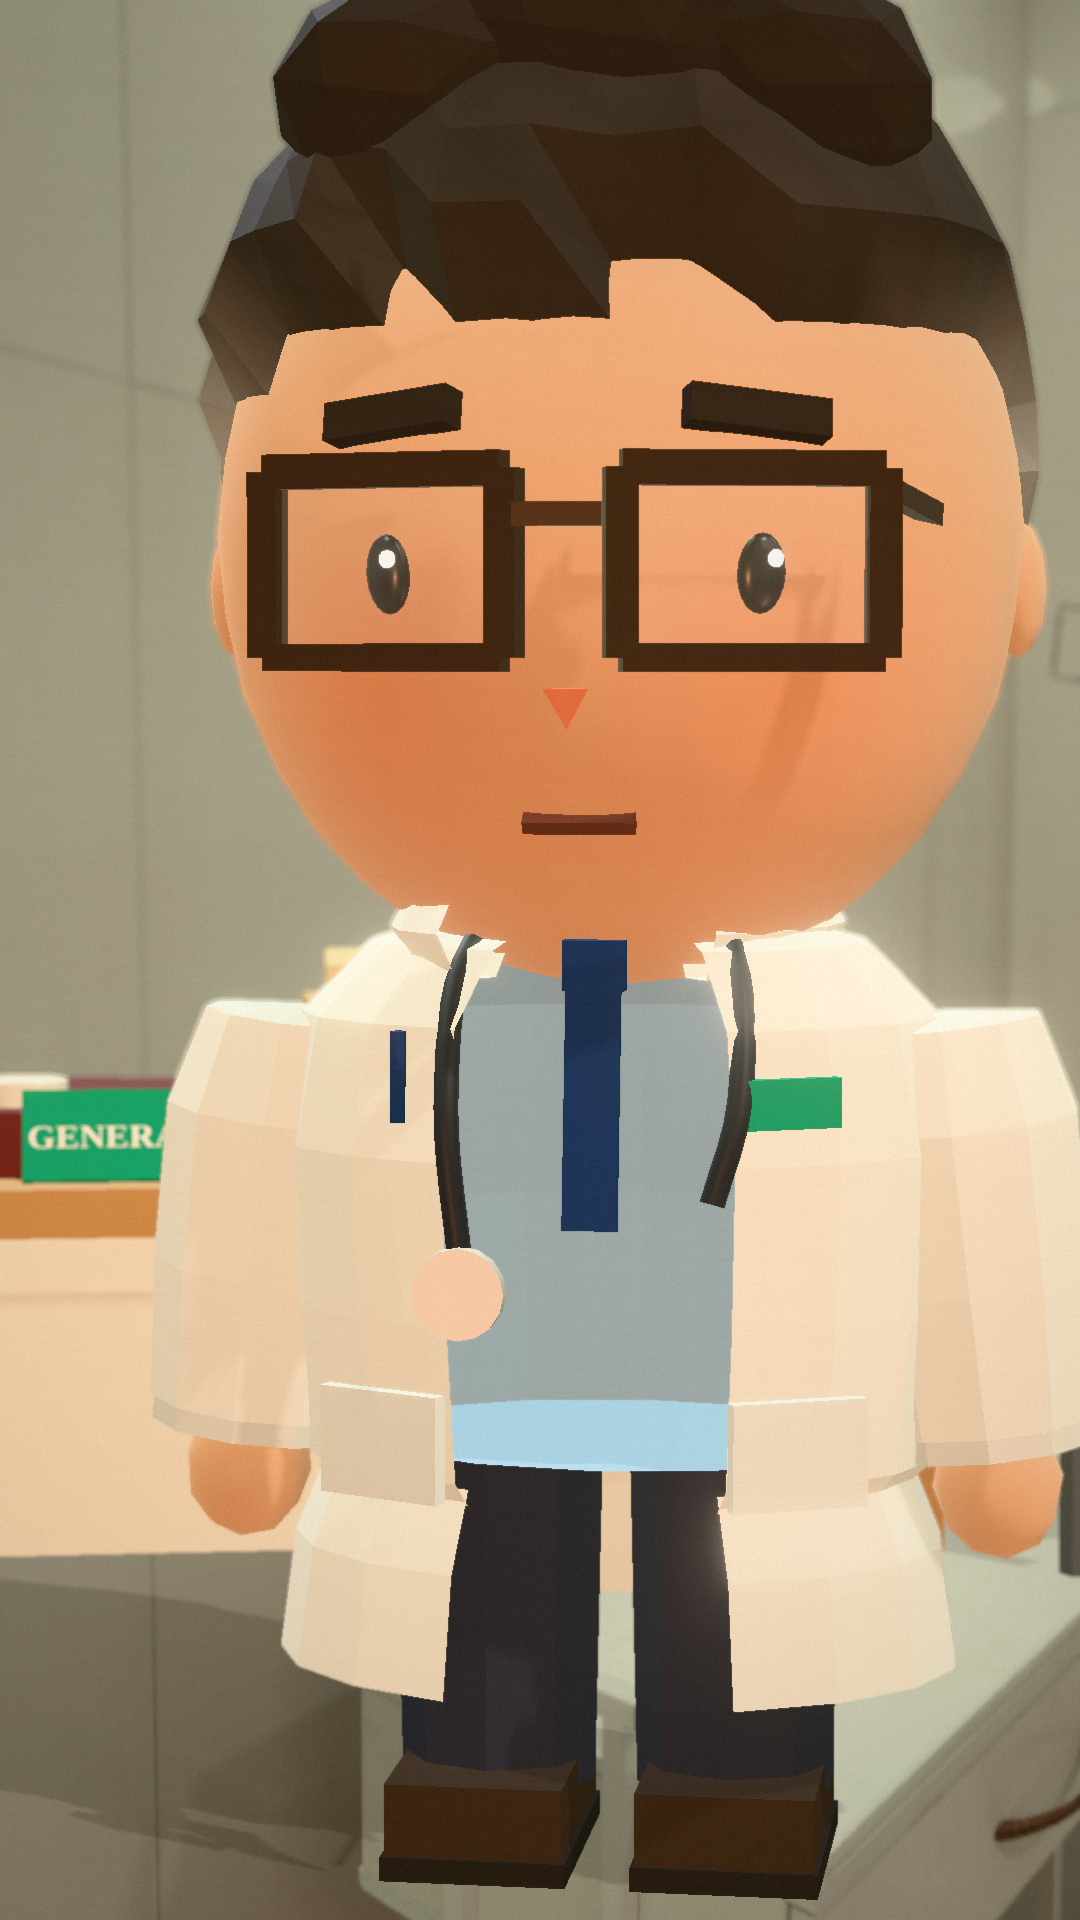
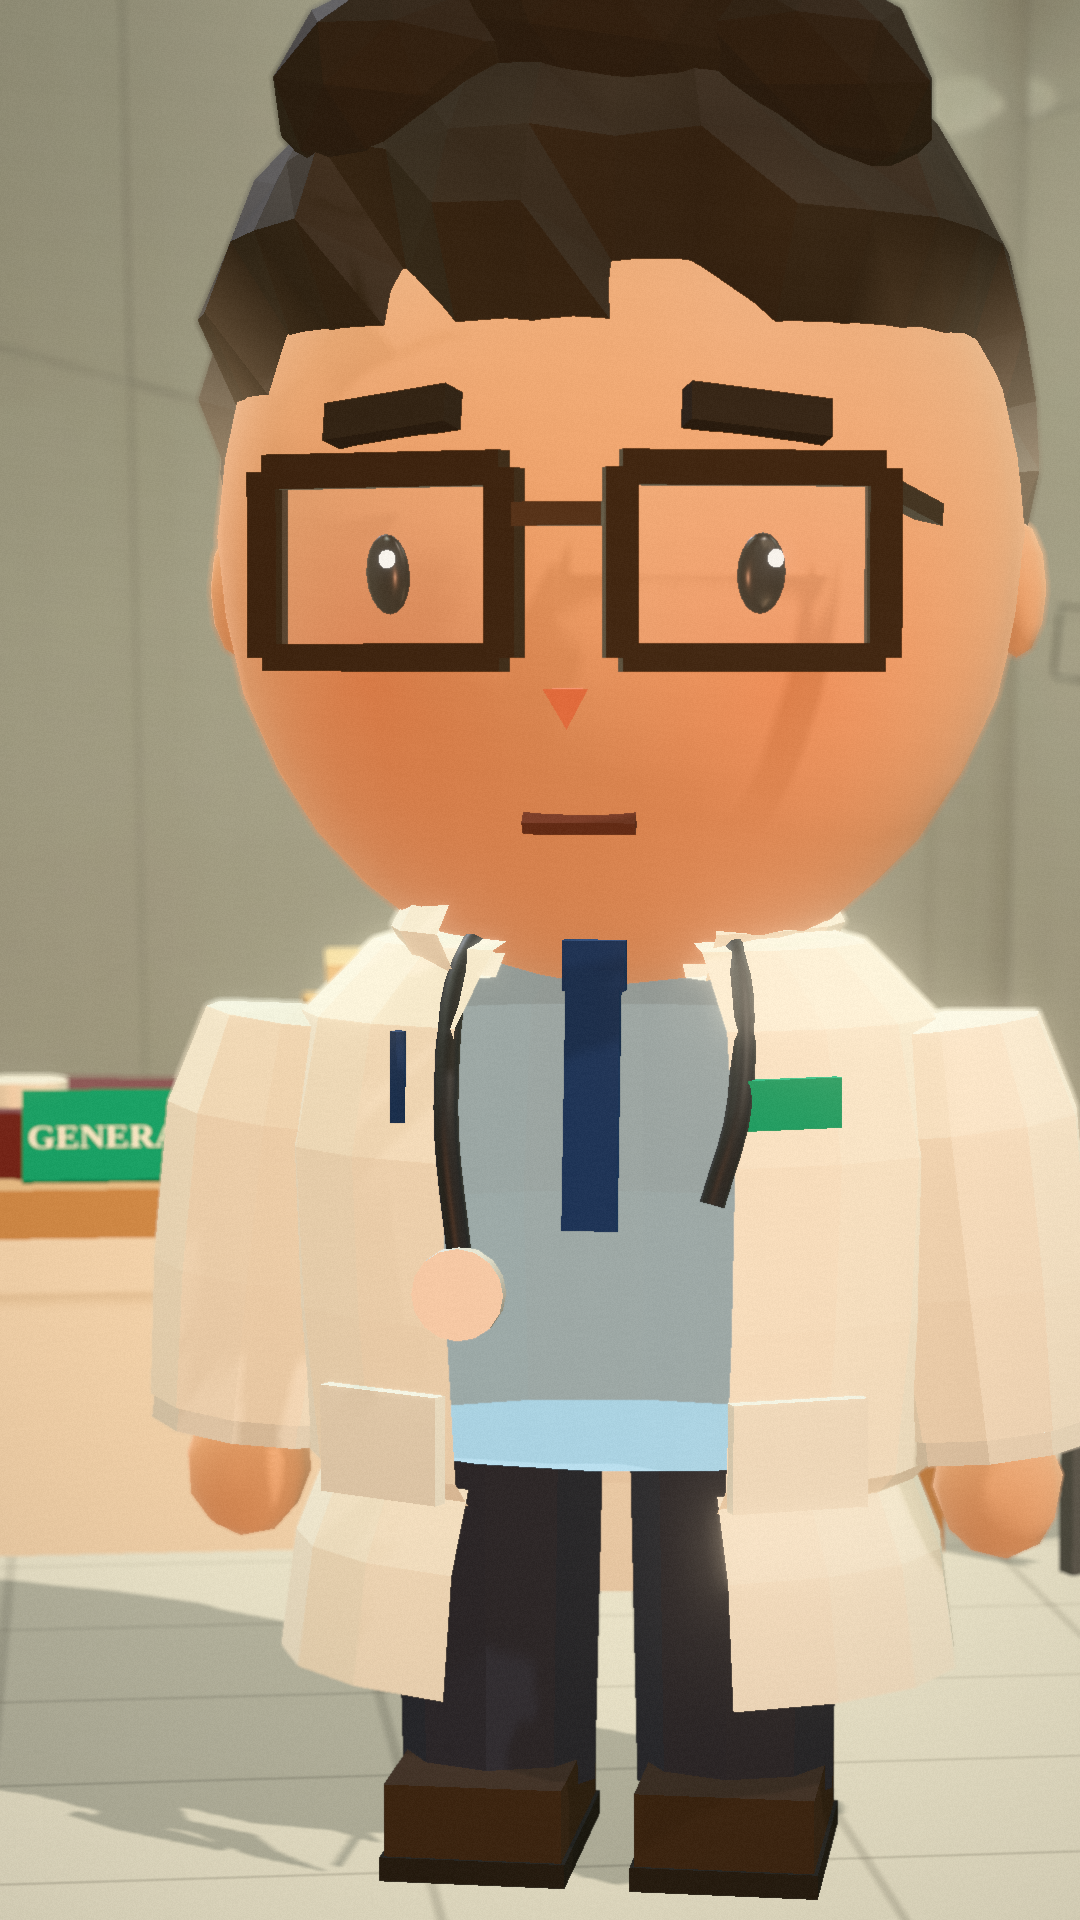
v3: grounded tile floor, refreshed look-dev sheets
Claude-Session: https://claude.ai/code/session_01A9qd9KUTfaZermUqJczJfR

Changed region(s): [[0.0, 0.7812, 1.0, 1.0]]

diff --git a/reels/avni-doctor/lookdev.html b/reels/avni-doctor/lookdev.html
@@ -74,6 +74,13 @@ const warmBounce = new THREE.DirectionalLight(0xffb48c, 1.1); warmBounce.positio
 const rim = new THREE.DirectionalLight(0xdfe9ff, 0.9); rim.position.set(-3, 6, -8); scene.add(rim);
 const catcher = new THREE.Mesh(new THREE.PlaneGeometry(40, 40), new THREE.ShadowMaterial({ opacity: 0.25 }));
 catcher.rotation.x = -Math.PI / 2; catcher.receiveShadow = true; scene.add(catcher);
+// real-looking clinic floor (light grey glossy tile, like the photo) so furniture is grounded
+const tileTex = (() => { const c = document.createElement('canvas'); c.width = c.height = 512; const g = c.getContext('2d');
+  g.fillStyle = '#d6d2cb'; g.fillRect(0, 0, 512, 512); g.strokeStyle = 'rgba(120,115,108,.35)'; g.lineWidth = 3;
+  for (let i = 0; i <= 512; i += 128) { g.beginPath(); g.moveTo(i, 0); g.lineTo(i, 512); g.moveTo(0, i); g.lineTo(512, i); g.stroke(); }
+  const t = new THREE.CanvasTexture(c); t.colorSpace = THREE.SRGBColorSpace; t.wrapS = t.wrapT = THREE.RepeatWrapping; t.repeat.set(5, 5); return t; })();
+const floorTile = new THREE.Mesh(new THREE.PlaneGeometry(22, 18), new THREE.MeshStandardMaterial({ map: tileTex, roughness: 0.28, metalness: 0 }));
+floorTile.rotation.x = -Math.PI / 2; floorTile.position.set(0, -0.001, 2.5); floorTile.receiveShadow = true; scene.add(floorTile);
 const camera = new THREE.PerspectiveCamera(30, W / H, 0.1, 80);
 
 const kiran = createHostMale(); scene.add(kiran);
